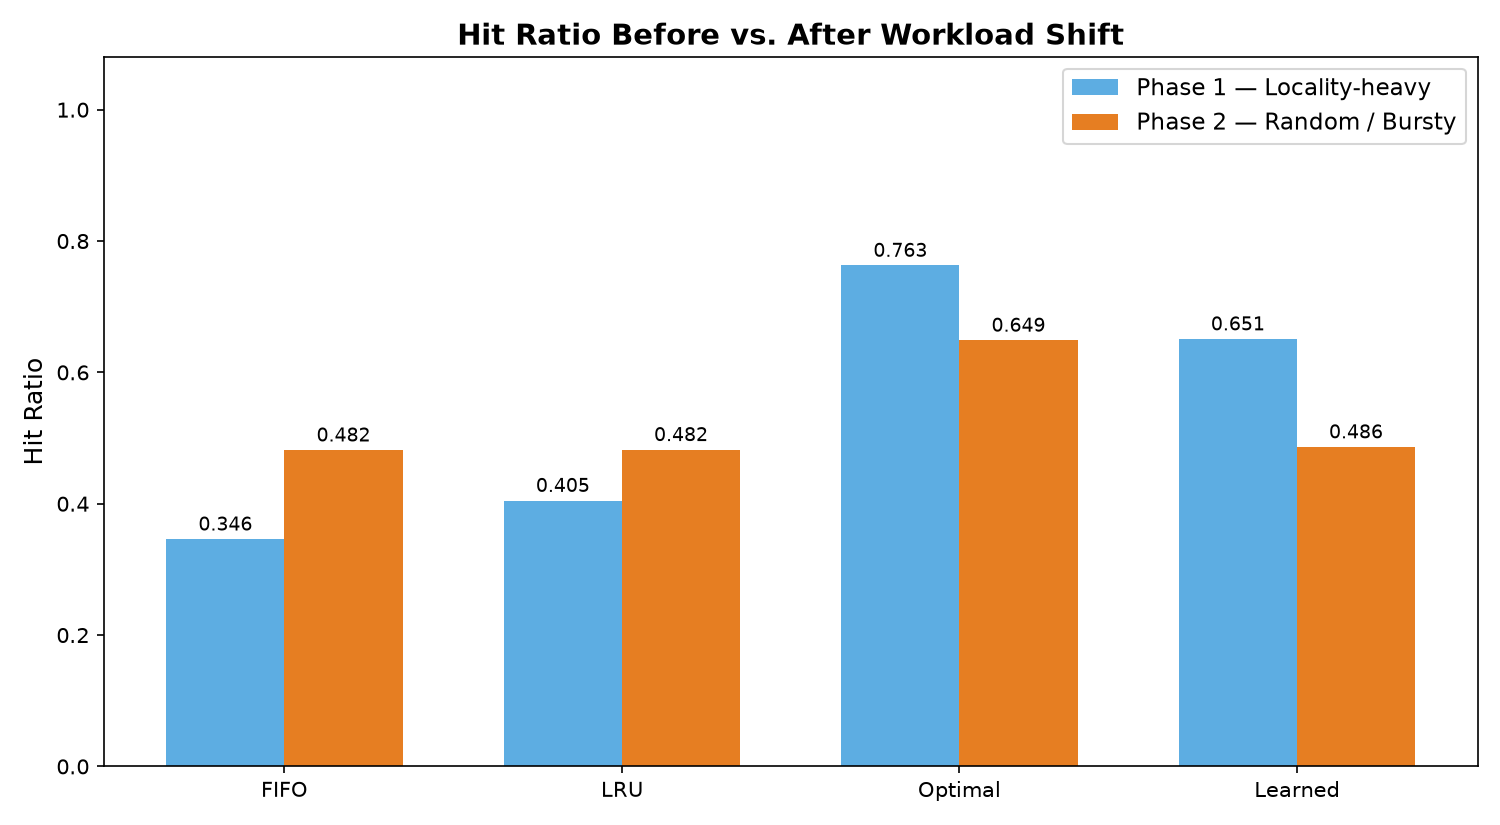
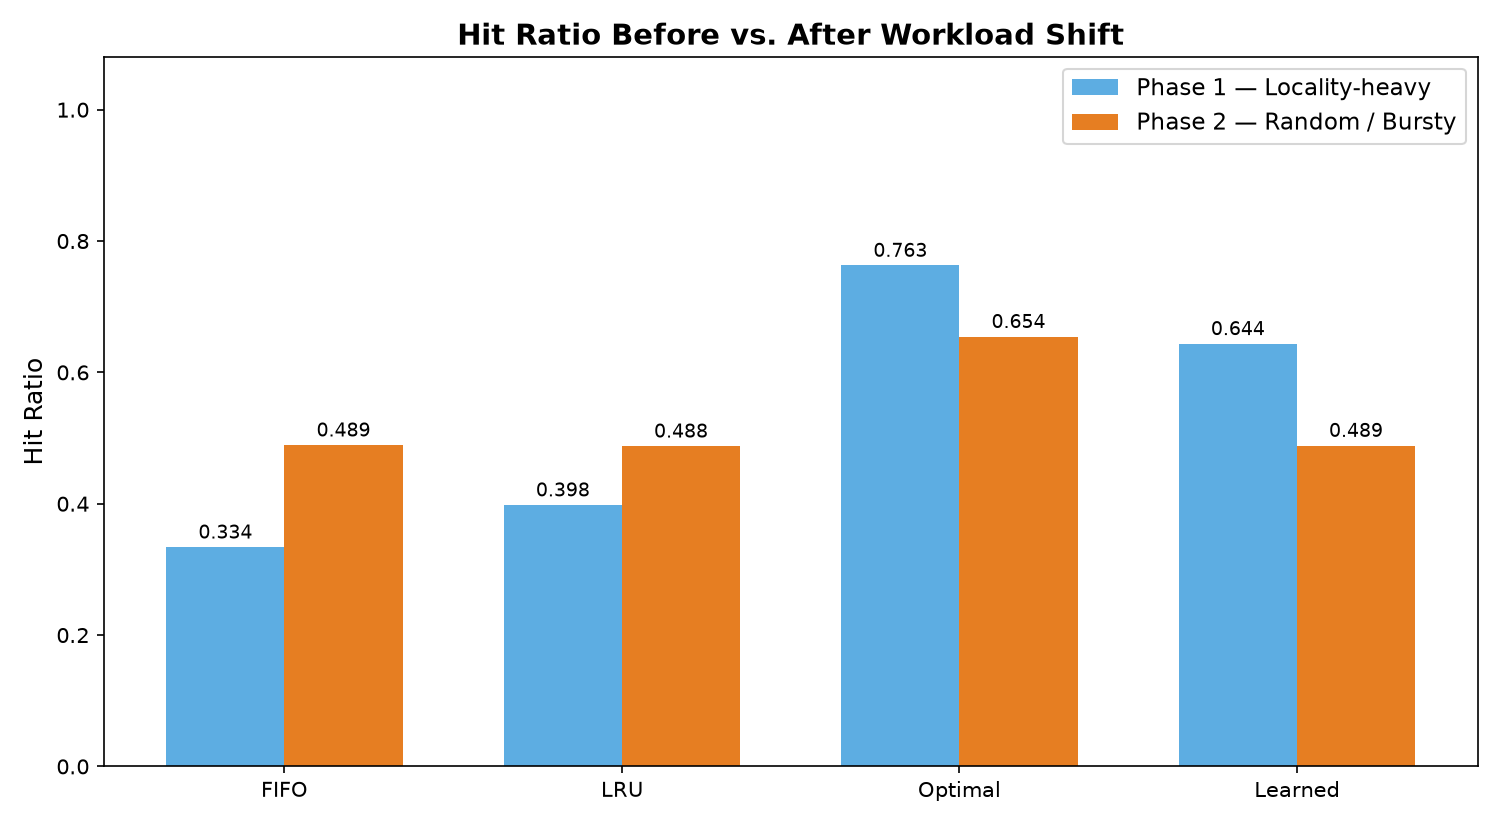
Another random execution, the result should also appear in my README.md

diff --git a/main.py b/main.py
@@ -377,13 +377,35 @@ def run_experiment(num_frames=NUM_FRAMES, total_refs=TOTAL_REFS):
            f"{'Phase1 HR':>9s} | {'Phase2 HR':>9s} | {'Degradation':>11s}")
     print(hdr)
     print("  " + "-" * (len(hdr) - 2))
+    table_lines = [hdr, "  " + "-" * (len(hdr) - 2)]
     for name in algorithms:
         r = results[name]
         deg = r["phase1_hit_ratio"] - r["phase2_hit_ratio"]
-        print(f"  {name:10s} | {r['total_faults']:7d} | "
-              f"{r['hit_ratio']:9.4f} | {r['phase1_hit_ratio']:9.4f} | "
-              f"{r['phase2_hit_ratio']:9.4f} | {deg:+11.4f}")
+        line = (f"  {name:10s} | {r['total_faults']:7d} | "
+                f"{r['hit_ratio']:9.4f} | {r['phase1_hit_ratio']:9.4f} | "
+                f"{r['phase2_hit_ratio']:9.4f} | {deg:+11.4f}")
+        print(line)
+        table_lines.append(line)
     print()
+
+    # ── Update README.md ──
+    readme_path = os.path.join(os.path.dirname(os.path.abspath(__file__)), "README.md")
+    if os.path.exists(readme_path):
+        import re
+        with open(readme_path, "r") as f:
+            content = f.read()
+        
+        table_body = "\n".join(table_lines)
+        # Find the markdown code block right after the 'prints a table like' text
+        new_content = re.sub(
+            r"(After running `main\.py`, the console prints a table like:\n\n```\n).*?(\n```)",
+            r"\g<1>" + table_body + r"\2",
+            content,
+            flags=re.DOTALL
+        )
+        with open(readme_path, "w") as f:
+            f.write(new_content)
+        print("  Updated README.md with the latest table.")
 
     # ── Save CSV ──
     rows = []

diff --git a/README.md b/README.md
@@ -175,11 +175,11 @@ After running `main.py`, the console prints a table like:
 
 ```
   Algorithm  |  Faults | Hit Ratio | Phase1 HR | Phase2 HR | Degradation
-  -------------------------------------------------------------------------
-  FIFO       |    XXXX |    0.XXXX |    0.XXXX |    0.XXXX |    +0.XXXX
-  LRU        |    XXXX |    0.XXXX |    0.XXXX |    0.XXXX |    +0.XXXX
-  Optimal    |    XXXX |    0.XXXX |    0.XXXX |    0.XXXX |    +0.XXXX
-  Learned    |    XXXX |    0.XXXX |    0.XXXX |    0.XXXX |    +0.XXXX
+  ----------------------------------------------------------------------
+  FIFO       |    5885 |    0.4115 |    0.3338 |    0.4892 |     -0.1554
+  LRU        |    5572 |    0.4428 |    0.3980 |    0.4876 |     -0.0896
+  Optimal    |    2914 |    0.7086 |    0.7628 |    0.6544 |     +0.1084
+  Learned    |    4339 |    0.5661 |    0.6436 |    0.4886 |     +0.1550
 ```
 
 Four plots are also generated in the `results/` directory, visualizing the comparison across algorithms:
